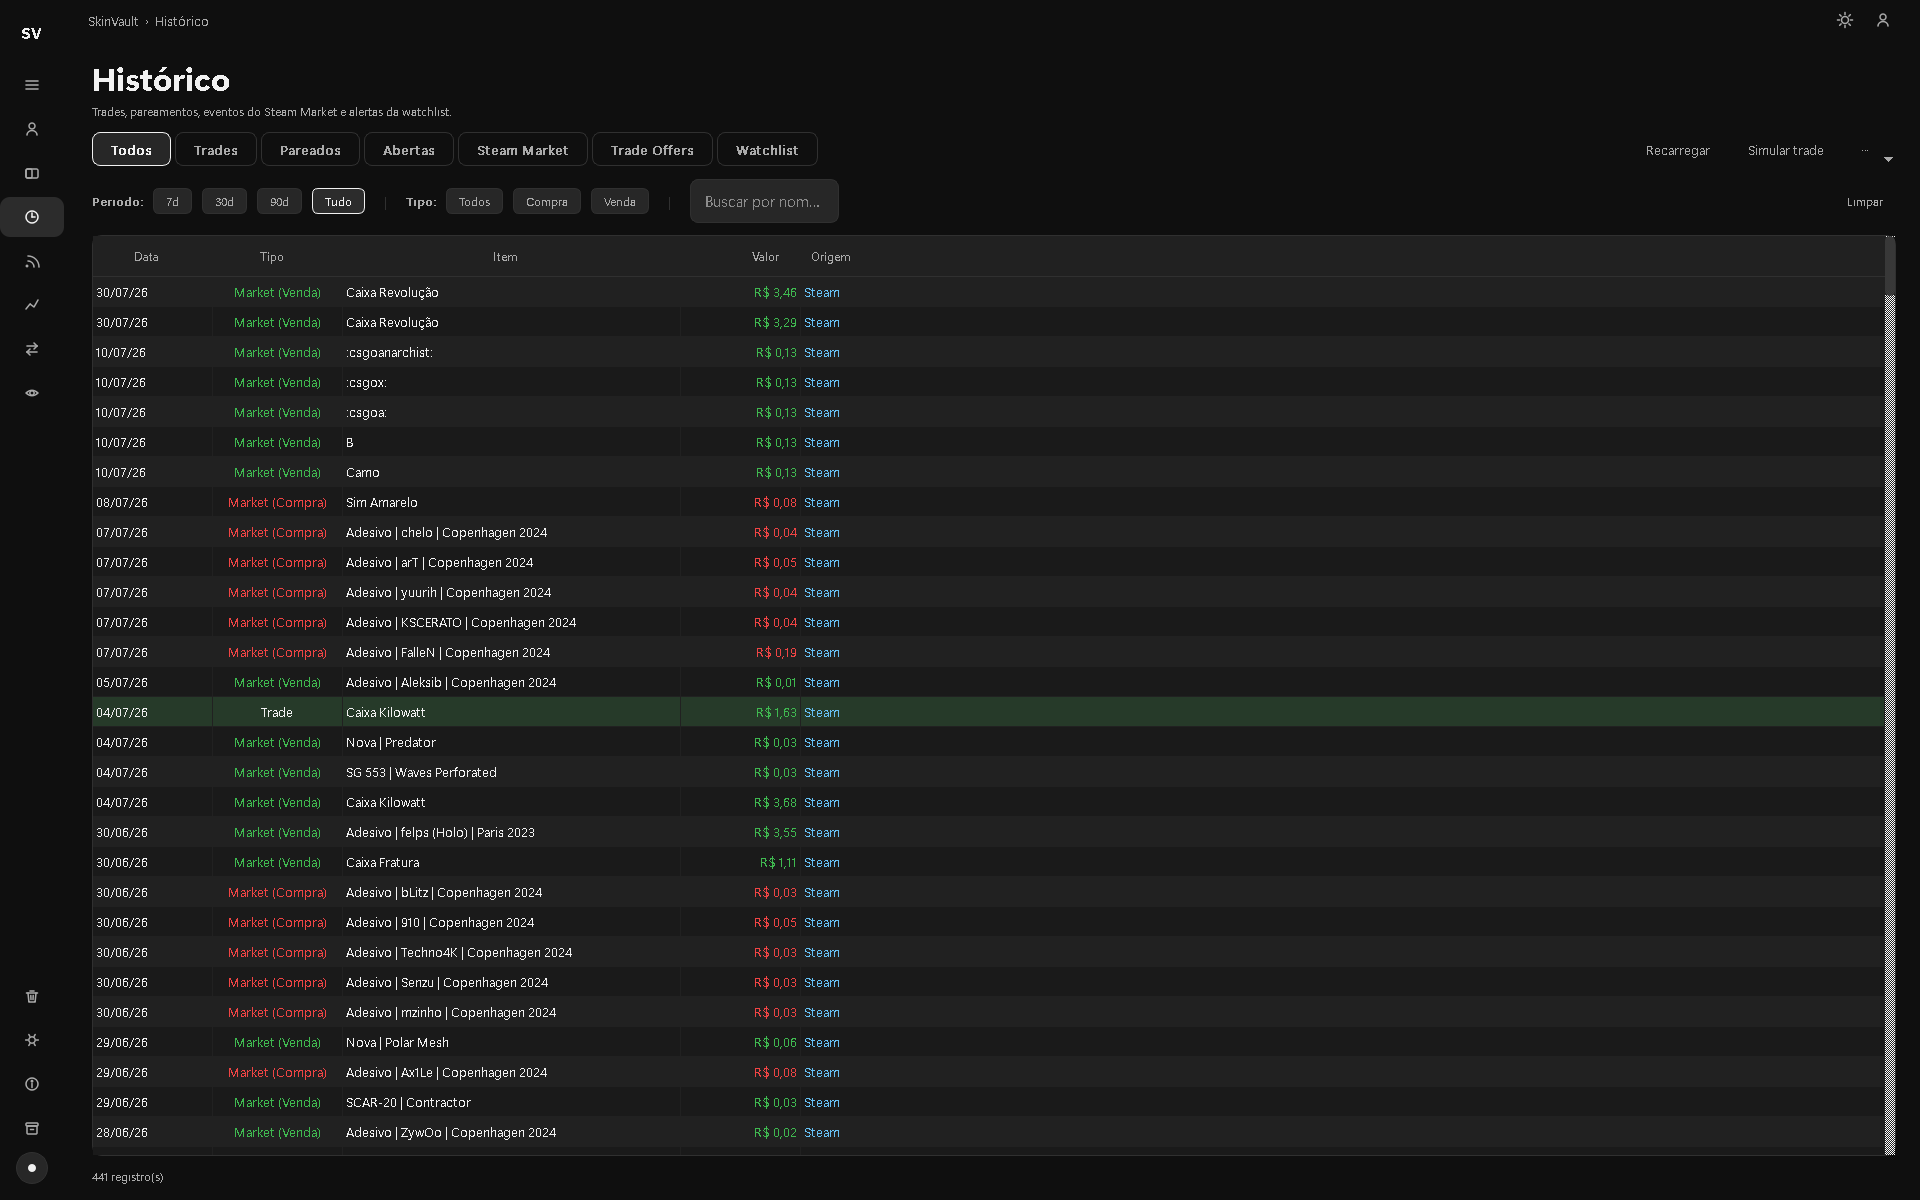
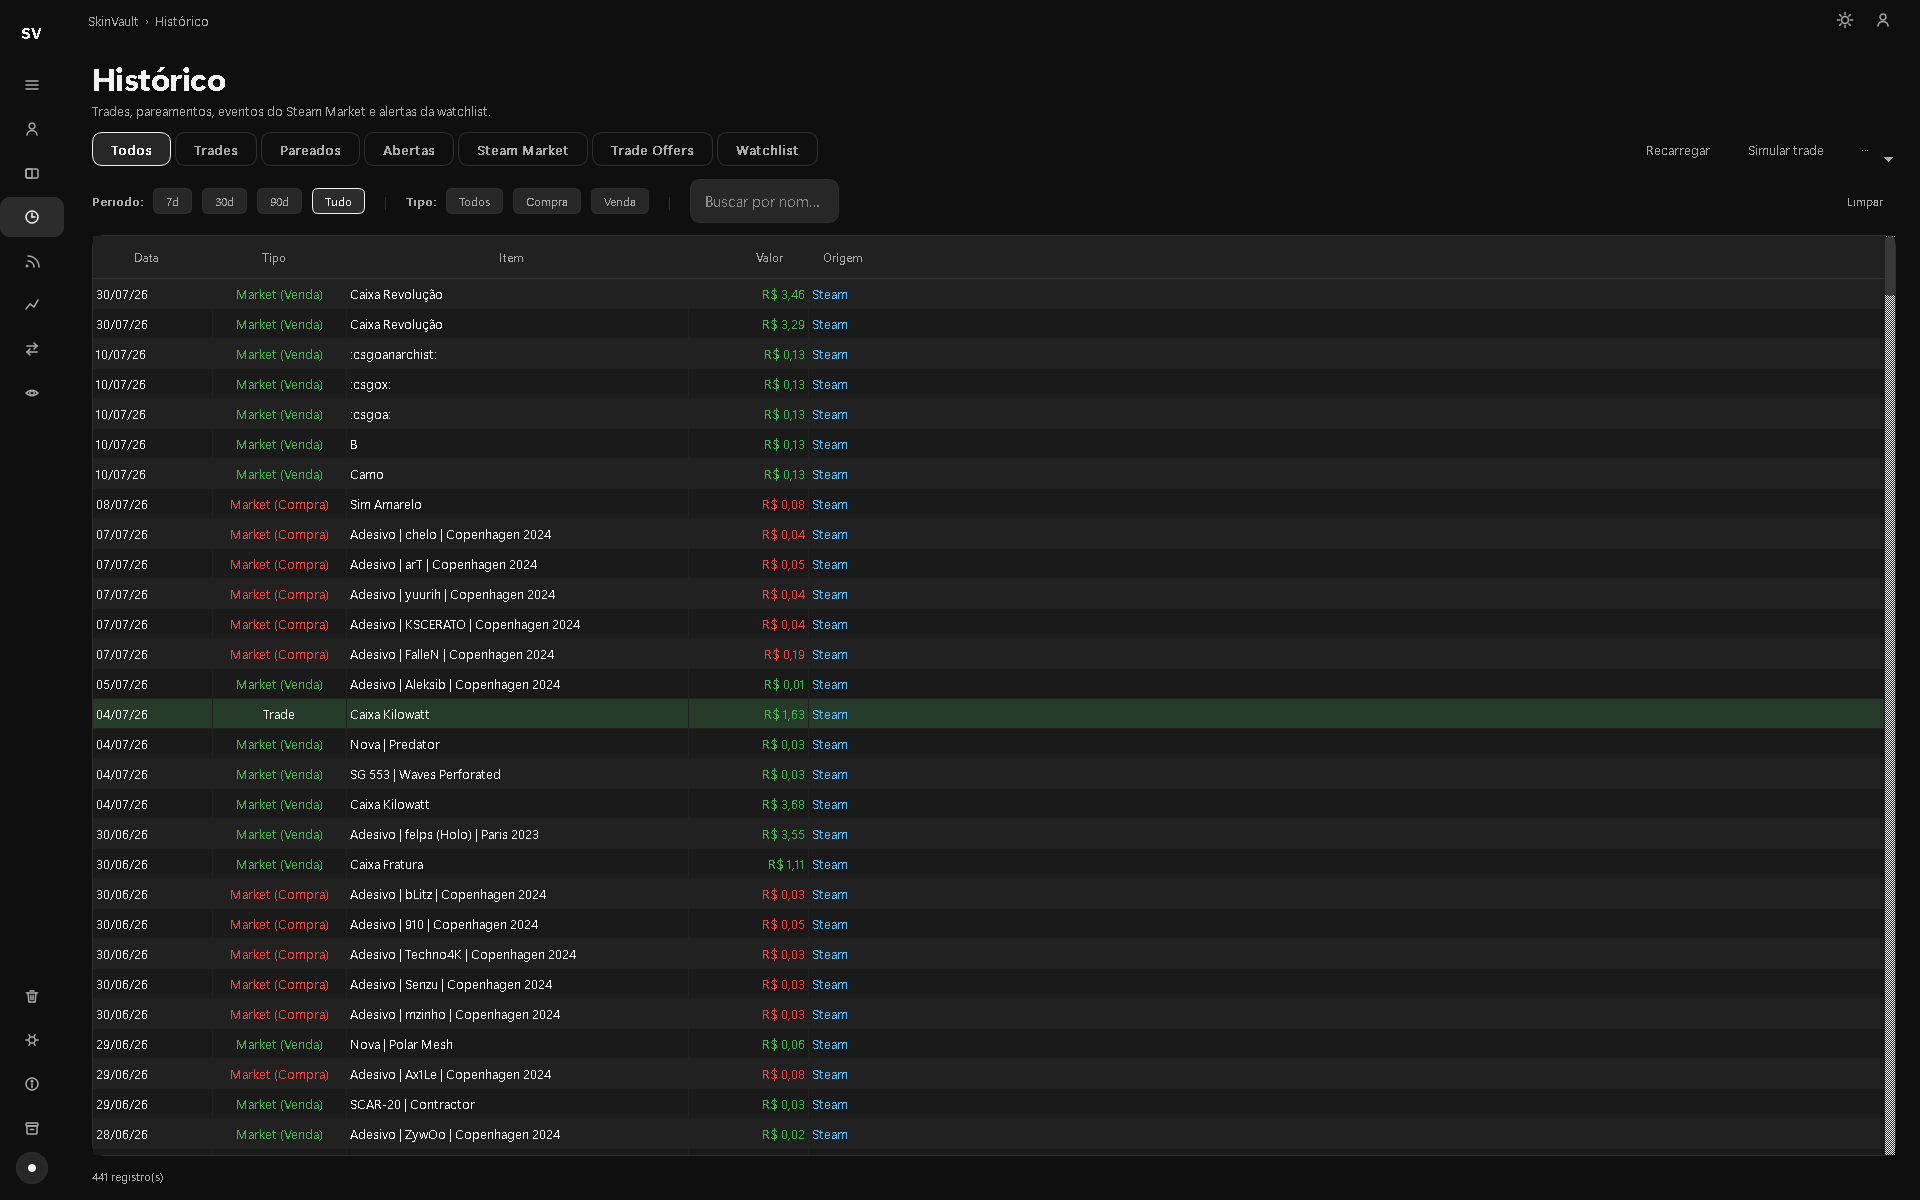
feat: refresh visual modern clean — CTA solido, pill na sidebar, radius/table/card uniformizados

diff --git a/skinvault/ui/theme.py b/skinvault/ui/theme.py
@@ -20,6 +20,14 @@ TEXT_MUTED  = "#AAAAAA"
 ACCENT      = "#F1F1F1"   # branco YouTube — accent de MARCA/UI (mono; nao e' lucro)
 ACCENT_DIM  = "rgba(241,241,241,0.13)"
 ACCENT_HOV  = "rgba(241,241,241,0.22)"
+# CTA solido — YouTube clean: botao primario INVERTE o contraste do fundo
+# (branco no tema escuro, preto no claro). Desacoplado de ACCENT porque
+# o fill cheio exige par proprio de fg/bg/hover/focus.
+PRIMARY_BG     = "#F1F1F1"
+PRIMARY_FG     = "#0F0F0F"
+PRIMARY_BORDER = "#F1F1F1"
+PRIMARY_HOV    = "#E4E4E4"
+PRIMARY_FOCUS  = "#9A9A9A"   # ring sobre o fill branco (visivel no CTA solido)
 STEAM_BLUE  = "#66C0F4"   # azul Steam (conta/sync)
 STEAM_DIM   = "rgba(102,192,244,0.14)"
 STEAM_HOV   = "rgba(102,192,244,0.24)"
@@ -92,9 +100,11 @@ SIZE_HEADER_H   = 40
 SIZE_FOOTER_H   = 32
 
 # ── Radius ───────────────────────────────────────────────────
-# Consolida o param `radius=...` espalhado em Card/StatCard/etc
-RADIUS_SM = 6
-RADIUS_MD = 10
+# Consolida o param `radius=...` espalhado em Card/StatCard/etc.
+# Bump 2026-07-31 (refresh modern clean): cantos mais generosos, mas
+# longe de pill — pills so' em chips/toggle, nao em botoes/cards grandes.
+RADIUS_SM = 8
+RADIUS_MD = 12
 RADIUS_LG = 16
 
 # Padding interno de Card por densidade visual.
@@ -111,6 +121,7 @@ def _reload_palette(theme: str) -> None:
     pal = _T.get(theme, _T["dark"])
     global BG, BG_ELEVATED, SURFACE, BORDER, TEXT, TEXT_MUTED
     global ACCENT, ACCENT_DIM, ACCENT_HOV, STEAM_BLUE, DANGER, ROW_ALT
+    global PRIMARY_BG, PRIMARY_FG, PRIMARY_BORDER, PRIMARY_HOV, PRIMARY_FOCUS
     BG = pal["bg"]
     BG_ELEVATED = pal["surface"]
     SURFACE = pal.get("surface2", pal["surface"])
@@ -123,6 +134,19 @@ def _reload_palette(theme: str) -> None:
     ACCENT_DIM = "rgba(241,241,241,0.13)"
     ACCENT_HOV = "rgba(241,241,241,0.22)"
     STEAM_BLUE = "#66C0F4"
+    if theme == "light":
+        # CTA solido inverte: fundo claro pede botao escuro
+        PRIMARY_BG = "#1C1C1C"
+        PRIMARY_FG = "#FFFFFF"
+        PRIMARY_BORDER = "#1C1C1C"
+        PRIMARY_HOV = "#2F2F2F"
+        PRIMARY_FOCUS = "#FFFFFF"
+    else:
+        PRIMARY_BG = "#F1F1F1"
+        PRIMARY_FG = "#0F0F0F"
+        PRIMARY_BORDER = "#F1F1F1"
+        PRIMARY_HOV = "#E4E4E4"
+        PRIMARY_FOCUS = "#9A9A9A"
 
 
 # ── Tipografia ───────────────────────────────────────────────
@@ -183,7 +207,7 @@ def input_style() -> str:
     return (
         f"QLineEdit, QDoubleSpinBox, QSpinBox"
         f" {{ background: {SURFACE}; border: 1px solid {BORDER};"
-        f" border-radius: 8px; padding: 10px 12px; font-size: {FS_INPUT};"
+        f" border-radius: 10px; padding: 10px 12px; font-size: {FS_INPUT};"
         f" color: {TEXT}; font-family: {FONT_FAMILY}; }}"
         f"QLineEdit:focus, QDoubleSpinBox:focus, QSpinBox:focus"
         f" {{ border: 1px solid {ACCENT}; }}"
@@ -199,7 +223,7 @@ def input_style_error() -> str:
     return (
         f"QLineEdit, QDoubleSpinBox, QSpinBox"
         f" {{ background: {SURFACE}; border: 1px solid {DANGER};"
-        f" border-radius: 8px; padding: 10px 12px; font-size: {FS_INPUT};"
+        f" border-radius: 10px; padding: 10px 12px; font-size: {FS_INPUT};"
         f" color: {TEXT}; font-family: {FONT_FAMILY}; }}"
         f"QLineEdit:focus, QDoubleSpinBox:focus, QSpinBox:focus"
         f" {{ border: 1px solid {ACCENT}; }}"
@@ -208,14 +232,20 @@ def input_style_error() -> str:
 
 def btn_primary(padding: str = "10px 22px", fs: str = FS_INPUT,
                 disabled: bool = False) -> str:
+    """CTA solido (YouTube clean): fill cheio, contraste invertido.
+
+    Tema escuro: botao branco com texto escuro. Tema claro: botao preto
+    com texto claro. O ring de focus e' PRIMARY_FOCUS porque FOCUS_GREEN
+    (branco) sumiria sobre o fill branco do CTA no tema escuro.
+    """
     s = (
-        f"QPushButton {{ color: #DCFFE6; background: {ACCENT_DIM};"
-        f" border: 1px solid {ACCENT}; border-radius: 8px;"
+        f"QPushButton {{ color: {PRIMARY_FG}; background: {PRIMARY_BG};"
+        f" border: 1px solid {PRIMARY_BORDER}; border-radius: 10px;"
         f" padding: {padding}; font-size: {fs}; font-weight: 600;"
         f" font-family: {FONT_FAMILY}; }}"
-        f"QPushButton:hover {{ background: {ACCENT_HOV}; }}"
-        f"QPushButton:focus {{ border: 1px solid {FOCUS_GREEN};"
-        f" background: {ACCENT_HOV}; }}"
+        f"QPushButton:hover {{ background: {PRIMARY_HOV}; }}"
+        f"QPushButton:focus {{ border: 1px solid {PRIMARY_FOCUS};"
+        f" background: {PRIMARY_HOV}; }}"
     )
     if disabled:
         s += (
@@ -228,7 +258,7 @@ def btn_primary(padding: str = "10px 22px", fs: str = FS_INPUT,
 def btn_steam(padding: str = "10px 22px", fs: str = FS_INPUT) -> str:
     return (
         f"QPushButton {{ color: #DDF4FF; background: {STEAM_DIM};"
-        f" border: 1px solid {STEAM_BLUE}; border-radius: 8px;"
+        f" border: 1px solid {STEAM_BLUE}; border-radius: 10px;"
         f" padding: {padding}; font-size: {fs}; font-weight: 600;"
         f" font-family: {FONT_FAMILY}; }}"
         f"QPushButton:hover {{ background: {STEAM_HOV}; }}"
@@ -238,22 +268,27 @@ def btn_steam(padding: str = "10px 22px", fs: str = FS_INPUT) -> str:
 
 
 def btn_secondary(padding: str = "8px 18px", fs: str = FS_BODY) -> str:
+    """Botao de superficie: SURFACE + BORDER, sem tint translucido.
+
+    Antes usava rgba(255,255,255,0.06) cravado + borda #3A3A44 — uma
+    meia-tinta que nao acompanhava o tema claro. SURFACE e' token
+    theme-aware, entao o botao respira com o tema de graca.
+    """
     return (
-        f"QPushButton {{ color: {TEXT};"
-        " background: rgba(255,255,255,0.06);"
-        f" border: 1px solid #3A3A44; border-radius: 8px;"
+        f"QPushButton {{ color: {TEXT}; background: {SURFACE};"
+        f" border: 1px solid {BORDER}; border-radius: 10px;"
         f" padding: {padding}; font-size: {fs}; font-weight: 600;"
         f" font-family: {FONT_FAMILY}; }}"
-        "QPushButton:hover { background: rgba(255,255,255,0.12); }"
+        f"QPushButton:hover {{ background: {SURFACE_HOV}; }}"
         f"QPushButton:focus {{ border: 1px solid {TEXT_MUTED};"
-        " background: rgba(255,255,255,0.12); }"
+        f" background: {SURFACE_HOV}; }}"
     )
 
 
 def btn_danger(padding: str = "8px 18px", fs: str = FS_BODY) -> str:
     return (
         f"QPushButton {{ color: #FFE6E6; background: {DANGER_DIM};"
-        f" border: 1px solid {DANGER}; border-radius: 8px;"
+        f" border: 1px solid {DANGER}; border-radius: 10px;"
         f" padding: {padding}; font-size: {fs}; font-weight: 600;"
         f" font-family: {FONT_FAMILY}; }}"
         f"QPushButton:hover {{ background: {DANGER_HOV}; }}"
@@ -266,7 +301,7 @@ def btn_ghost(padding: str = "6px 14px", fs: str = FS_MUTED) -> str:
     """Botao flat sem borda — estilo Win11 toolbar."""
     return (
         f"QPushButton {{ color: {TEXT_MUTED}; background: transparent;"
-        f" border: 1px solid transparent; border-radius: 6px;"
+        f" border: 1px solid transparent; border-radius: 8px;"
         f" padding: {padding}; font-size: {fs};"
         f" font-family: {FONT_FAMILY}; }}"
         f"QPushButton:hover {{ color: {TEXT}; background: {SURFACE};"
@@ -331,7 +366,7 @@ def checkbox_style() -> str:
         f" font-family: {FONT_FAMILY}; spacing: 8px; }}"
         f"QCheckBox:focus {{ color: {TEXT}; }}"
         f"QCheckBox::indicator {{ width: 16px; height: 16px;"
-        f" border: 1px solid {BORDER}; border-radius: 4px;"
+        f" border: 1px solid {BORDER}; border-radius: 5px;"
         f" background: {SURFACE}; }}"
         f"QCheckBox::indicator:checked {{ background: {ACCENT};"
         f" border-color: {ACCENT}; }}"
@@ -344,9 +379,9 @@ def table_style() -> str:
         f"QTableWidget {{ background: {BG_ELEVATED};"
         f" alternate-background-color: {ROW_ALT};"
         f" gridline-color: transparent; border: 1px solid {BORDER};"
-        f" border-radius: 10px; color: {TEXT}; font-size: {FS_BODY};"
+        f" border-radius: 12px; color: {TEXT}; font-size: {FS_BODY};"
         f" font-family: {FONT_FAMILY}; }}"
-        f"QTableWidget::item {{ padding: 8px 12px; }}"
+        f"QTableWidget::item {{ padding: 9px 14px; }}"
         # O QHeaderView em si, nao so' a secao: a faixa do cabecalho DEPOIS
         # da ultima coluna cai na paleta do sistema (branca no Windows).
         # So' nao aparecia porque uma coluna esticava e nunca sobrava faixa.
@@ -354,7 +389,7 @@ def table_style() -> str:
         f"QHeaderView::section {{ background: {BG_ELEVATED};"
         f" color: {TEXT_MUTED}; border: none;"
         f" border-bottom: 1px solid {BORDER};"
-         f" padding: 8px 10px 8px 10px;"
+         f" padding: 9px 14px 9px 14px;"
         f" font-weight: 600; font-size: {FS_MUTED}; }}"
         f"QHeaderView::down-arrow {{ width: 8px; height: 8px;"
         f" subcontrol-origin: padding;"
@@ -452,10 +487,15 @@ def app_style() -> str:
 
 
 def card_style(radius: int = 10) -> str:
+    """Card com borda uniforme — sem o bevel antigo (border-top).
+
+    Antes tinha `border-top: #30303A`, um truque de "luz de topo" que
+    dava relevo. Modern clean: superficie plana com hairline igual nos 4
+    lados; a elevacao vem do tom (BG_ELEVATED sobre BG), nao do bevel.
+    """
     return (
         f"QWidget#Card {{ background: {BG_ELEVATED};"
         f" border: 1px solid {BORDER};"
-        f" border-top: 1px solid #30303A;"
         f" border-radius: {radius}px; }}"
     )
 

diff --git a/skinvault/gui.py b/skinvault/gui.py
@@ -88,50 +88,23 @@ def _brl(v: float) -> str:
 
 def _btn_primary(padding: str = "10px 22px", fs: str = "11pt",
                  disabled: bool = False) -> str:
-    s = (
-        "QPushButton { color: #DCFFE6; background: rgba(34,197,94,0.16);"
-        f" border: 1px solid {t.ACCENT}; border-radius: 8px;"
-        f" padding: {padding}; font-size: {fs}; font-weight: 600; }}"
-        "QPushButton:hover { background: rgba(34,197,94,0.26); }"
-    )
-    if disabled:
-        s += (
-            "QPushButton:disabled { color: #777; border-color: #333;"
-            " background: #1a1a20; }"
-        )
-    return s
+    """Delega pro theme. Mantido como wrapper porque dialogos (backup,
+    toast) chamavam a versao local verde-legada do pre-F11; o CTA real
+    agora e' o solid do theme."""
+    return t.btn_primary(padding, fs, disabled)
 
 
 def _btn_danger(padding: str = "8px 18px", fs: str = "10pt") -> str:
-    return (
-        "QPushButton { color: #FFE6E6; background: rgba(239,68,68,0.16);"
-        f" border: 1px solid {t.DANGER}; border-radius: 8px;"
-        f" padding: {padding}; font-size: {fs}; font-weight: 600; }}"
-        "QPushButton:hover { background: rgba(239,68,68,0.26); }"
-    )
+    return t.btn_danger(padding, fs)
 
 
 def _btn_secondary(padding: str = "8px 18px", fs: str = "10pt") -> str:
-    return (
-        "QPushButton { color: #E6E6EA; background: rgba(255,255,255,0.06);"
-        " border: 1px solid #3A3A44; border-radius: 8px;"
-        f" padding: {padding}; font-size: {fs}; font-weight: 600; }}"
-        "QPushButton:hover { background: rgba(255,255,255,0.12); }"
-    )
+    return t.btn_secondary(padding, fs)
 
 
 def _table_style() -> str:
-    return (
-        f"QTableWidget {{ background: {t.BG_ELEVATED};"
-        f" alternate-background-color: {t.BG_ELEVATED};"
-        " gridline-color: transparent; border: 1px solid #2A2A33;"
-        f" border-radius: 10px; color: {t.TEXT}; font-size: 10pt; }}"
-        f"QHeaderView::section {{ background: {t.BG_ELEVATED};"
-        f" color: {t.TEXT_MUTED}; border: none; padding: 8px 10px;"
-        " font-weight: 600; font-size: 9pt; }}"
-        f"QTableWidget::item:selected {{ background: rgba(34,197,94,0.16);"
-        f" color: {t.TEXT}; }}"
-    )
+    """Wrapper legado — delega pro theme (antes tinha tint verde aqui)."""
+    return t.table_style()
 
 
 def set_theme(theme_name: str) -> None:

diff --git a/skinvault/ui/sidebar.py b/skinvault/ui/sidebar.py
@@ -46,18 +46,21 @@ class _SidebarItem(QPushButton):
             )
         return (
             f"QPushButton {{ color: {t.TEXT_MUTED}; background: transparent;"
-            f" border: none; text-align: left; padding-left: 42px;"
-            f" border-left: 3px solid transparent;"
+            f" border: 1px solid transparent; text-align: left;"
+            f" padding-left: 42px; border-radius: 8px;"
+            f" margin: 1px 6px;"
             f" font-size: {t.FS_BODY}; font-weight: 500;"
             f" font-family: {t.FONT_FAMILY}; }}"
-            f"QPushButton:hover {{ color: {t.TEXT}; background: {t.SURFACE}; }}"
-            f"QPushButton:checked {{ color: {t.ACCENT}; background: {t.SURFACE};"
+            f"QPushButton:hover {{ color: {t.TEXT}; background: {t.SURFACE};"
+            f" border: 1px solid transparent; }}"
+            f"QPushButton:checked {{ color: {t.TEXT}; background: {t.ACCENT_DIM};"
             f" font-weight: 700;"
-            f" border-left: 3px solid {t.ACCENT}; }}"
+            f" border: 1px solid transparent; }}"
             f"QPushButton:focus {{ color: {t.TEXT}; background: {t.SURFACE};"
-            f" border-left: 3px solid {t.TEXT_MUTED}; }}"
-            f"QPushButton:checked:focus {{ color: {t.ACCENT};"
-            f" border-left: 3px solid {t.FOCUS_GREEN}; }}"
+            f" border: 1px solid {t.TEXT_MUTED}; }}"
+            f"QPushButton:checked:focus {{ color: {t.TEXT};"
+            f" background: {t.ACCENT_DIM};"
+            f" border: 1px solid {t.FOCUS_GREEN}; }}"
         )
 
     def _on_toggled(self, checked: bool) -> None:

diff --git a/skinvault/ui/components.py b/skinvault/ui/components.py
@@ -706,7 +706,7 @@ class SegmentedControl(QWidget):
     def _btn_style(self) -> str:
         return (
             f"QPushButton {{ color: {t.TEXT_MUTED}; background: transparent;"
-            f" border: 1px solid {t.BORDER}; border-radius: 8px;"
+            f" border: 1px solid {t.BORDER}; border-radius: 10px;"
             f" padding: 6px 18px; font-size: {t.FS_BODY}; font-weight: 600;"
             f" font-family: {t.FONT_FAMILY}; }}"
             f"QPushButton:hover {{ color: {t.TEXT}; }}"
@@ -1385,11 +1385,12 @@ class PageHeader(QWidget):
         self._title_lbl.setStyleSheet(
             f"color: {t.TEXT}; font-size: {t.FS_TITLE};"
             f" font-weight: 700; font-family: {t.FONT_FAMILY};"
+            f" letter-spacing: -0.5px;"
         )
         text_col.addWidget(self._title_lbl)
 
         self._sub_lbl = QLabel(subtitle)
-        self._sub_lbl.setStyleSheet(t.label_caption())
+        self._sub_lbl.setStyleSheet(t.label_body_muted())
         self._sub_lbl.setVisible(bool(subtitle))
         text_col.addWidget(self._sub_lbl)
 
@@ -1436,7 +1437,7 @@ class SectionHeader(QWidget):
         stack.addWidget(self._title)
 
         self._sub = QLabel(subtitle)
-        self._sub.setStyleSheet(t.label_caption())
+        self._sub.setStyleSheet(t.label_body_muted())
         self._sub.setVisible(bool(subtitle))
         stack.addWidget(self._sub)
 

diff --git a/skinvault/ui/cards.py b/skinvault/ui/cards.py
@@ -11,7 +11,7 @@ from skinvault.ui import theme as t
 class Card(QFrame):
     def __init__(self, parent: QWidget | None = None,
                  padding: tuple[int, int, int, int] = t.CARD_PAD_LG,
-                 radius: int = 14) -> None:
+                 radius: int = t.RADIUS_LG) -> None:
         super().__init__(parent)
         self.setObjectName("Card")
         self.setStyleSheet(t.card_style(radius))
@@ -31,7 +31,7 @@ class StatCard(Card):
                  accent: str = t.TEXT,
                  icon: str = "",
                  parent: QWidget | None = None) -> None:
-        super().__init__(parent, padding=(20, 16, 20, 16), radius=t.RADIUS_LG)
+        super().__init__(parent, padding=(20, 18, 20, 18), radius=t.RADIUS_LG)
         self.layout().setSpacing(4)
 
         header = QHBoxLayout()
